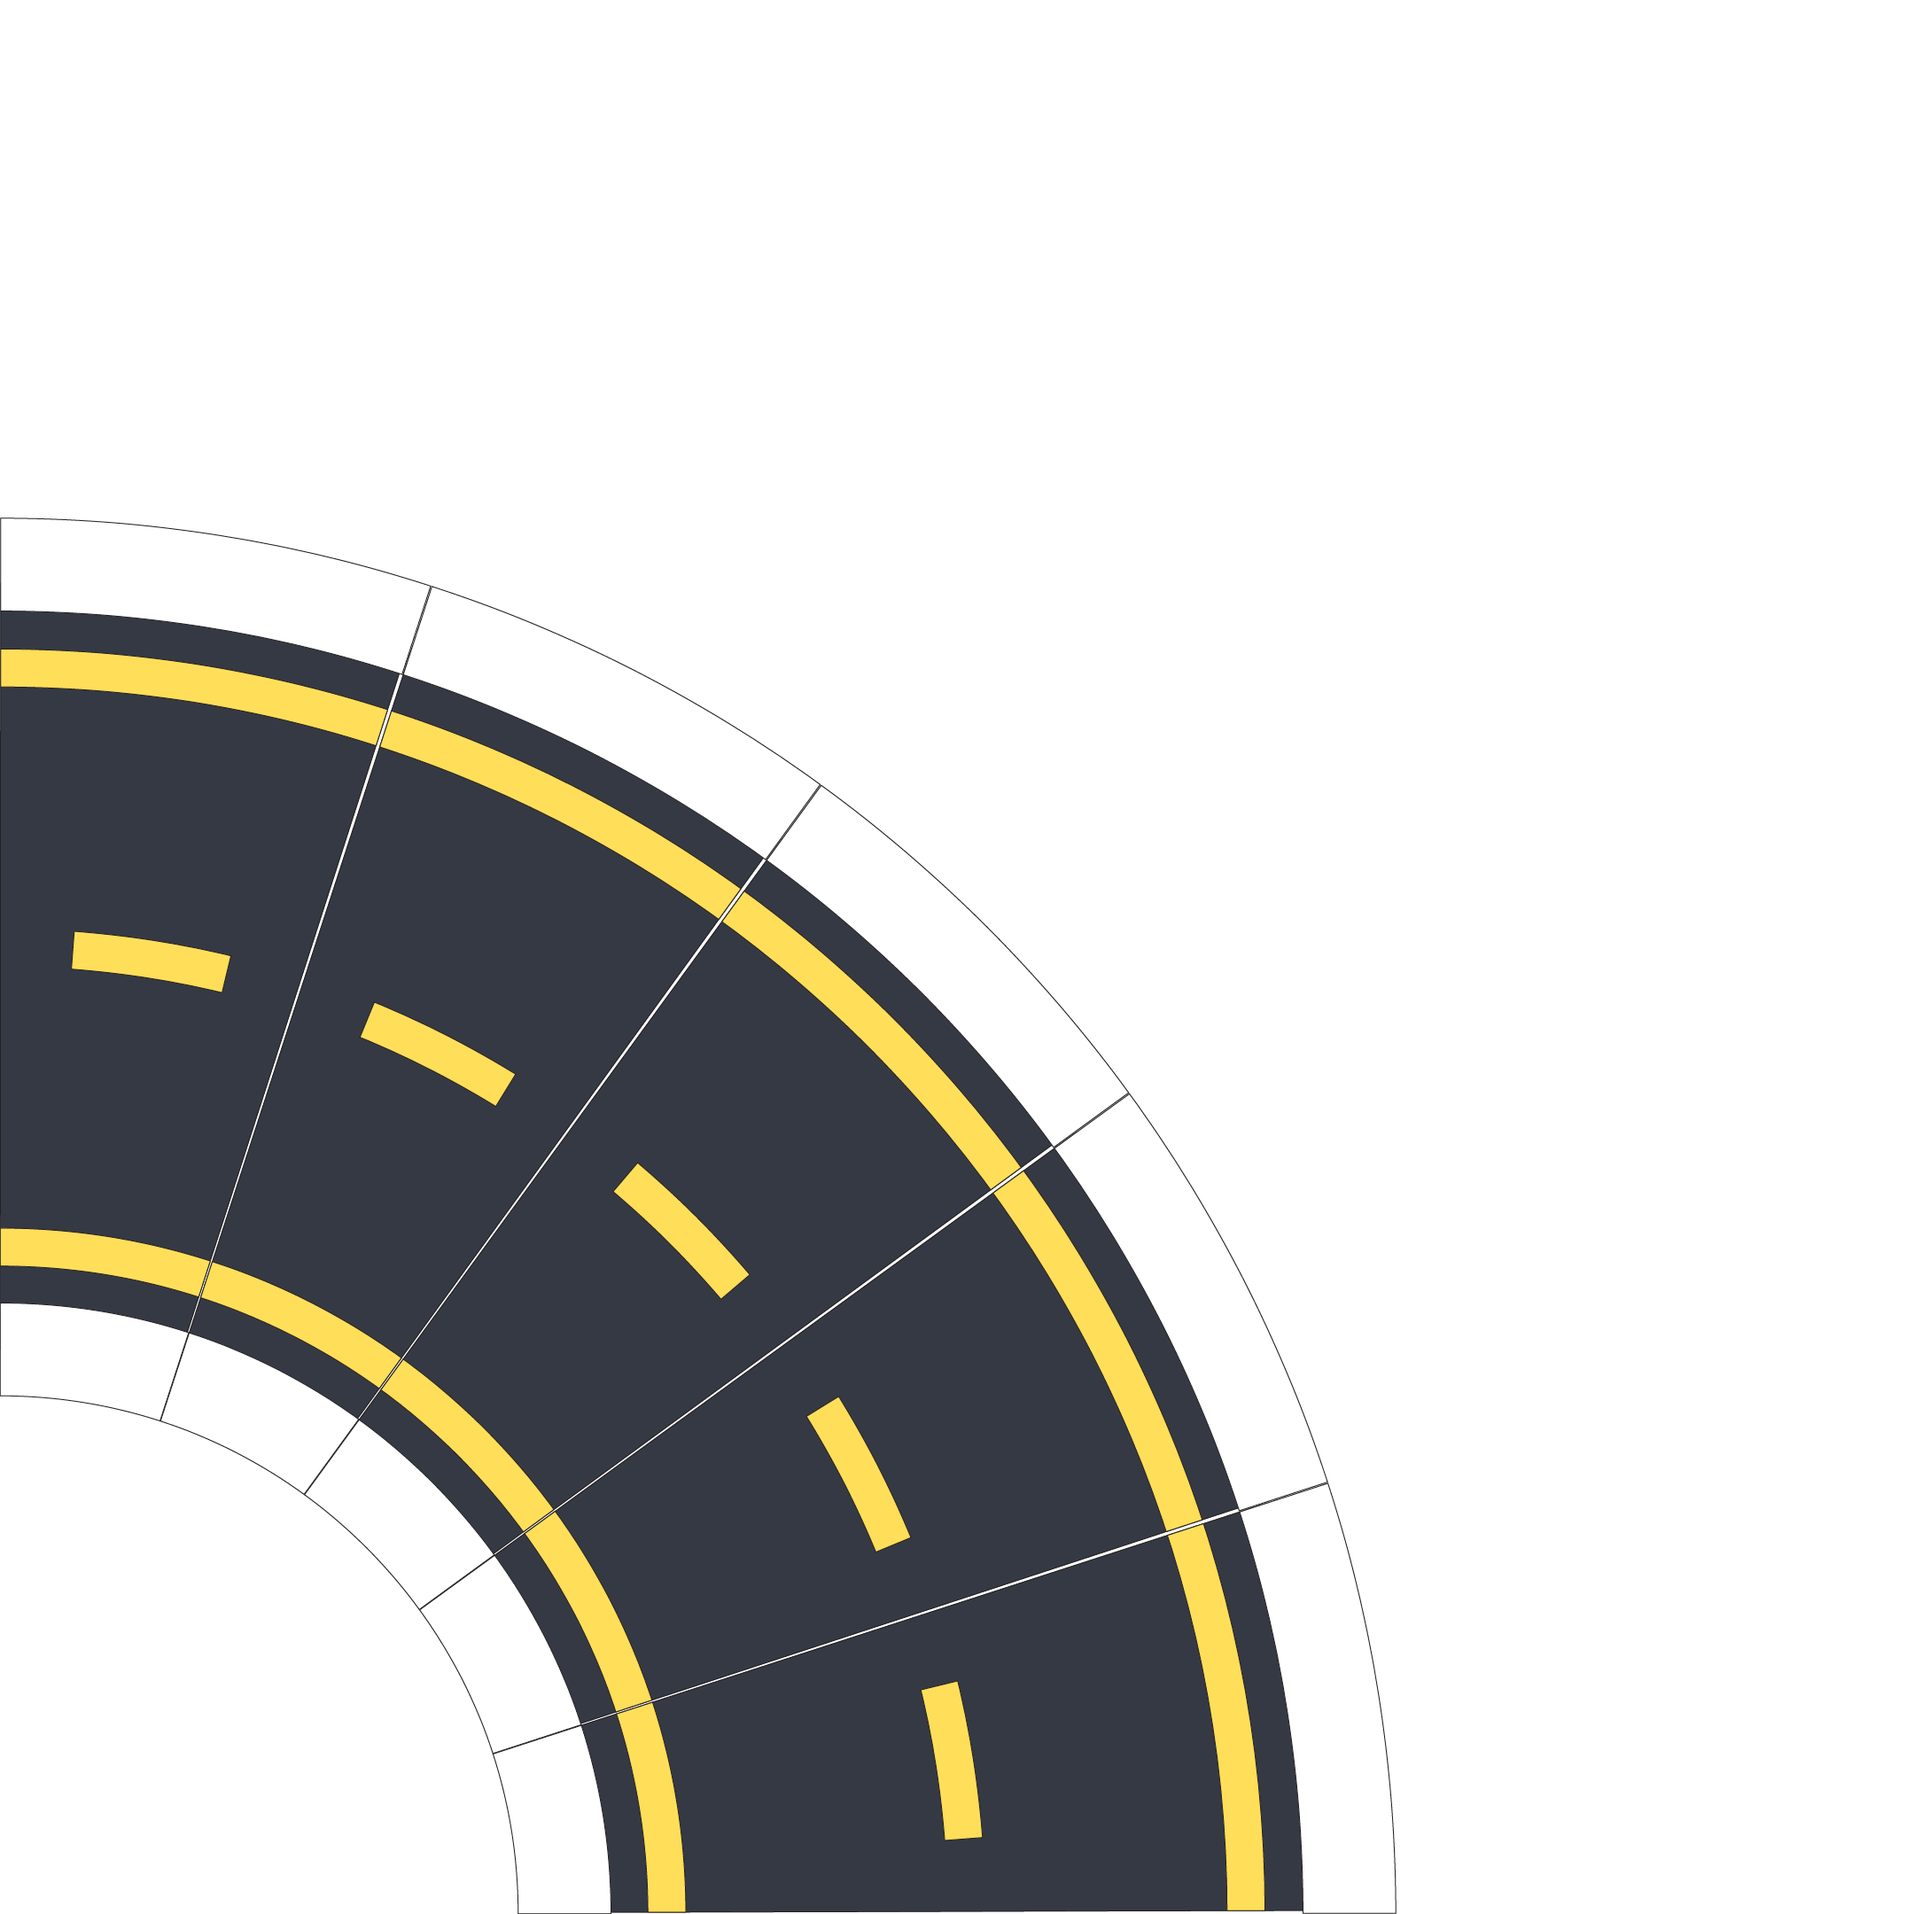
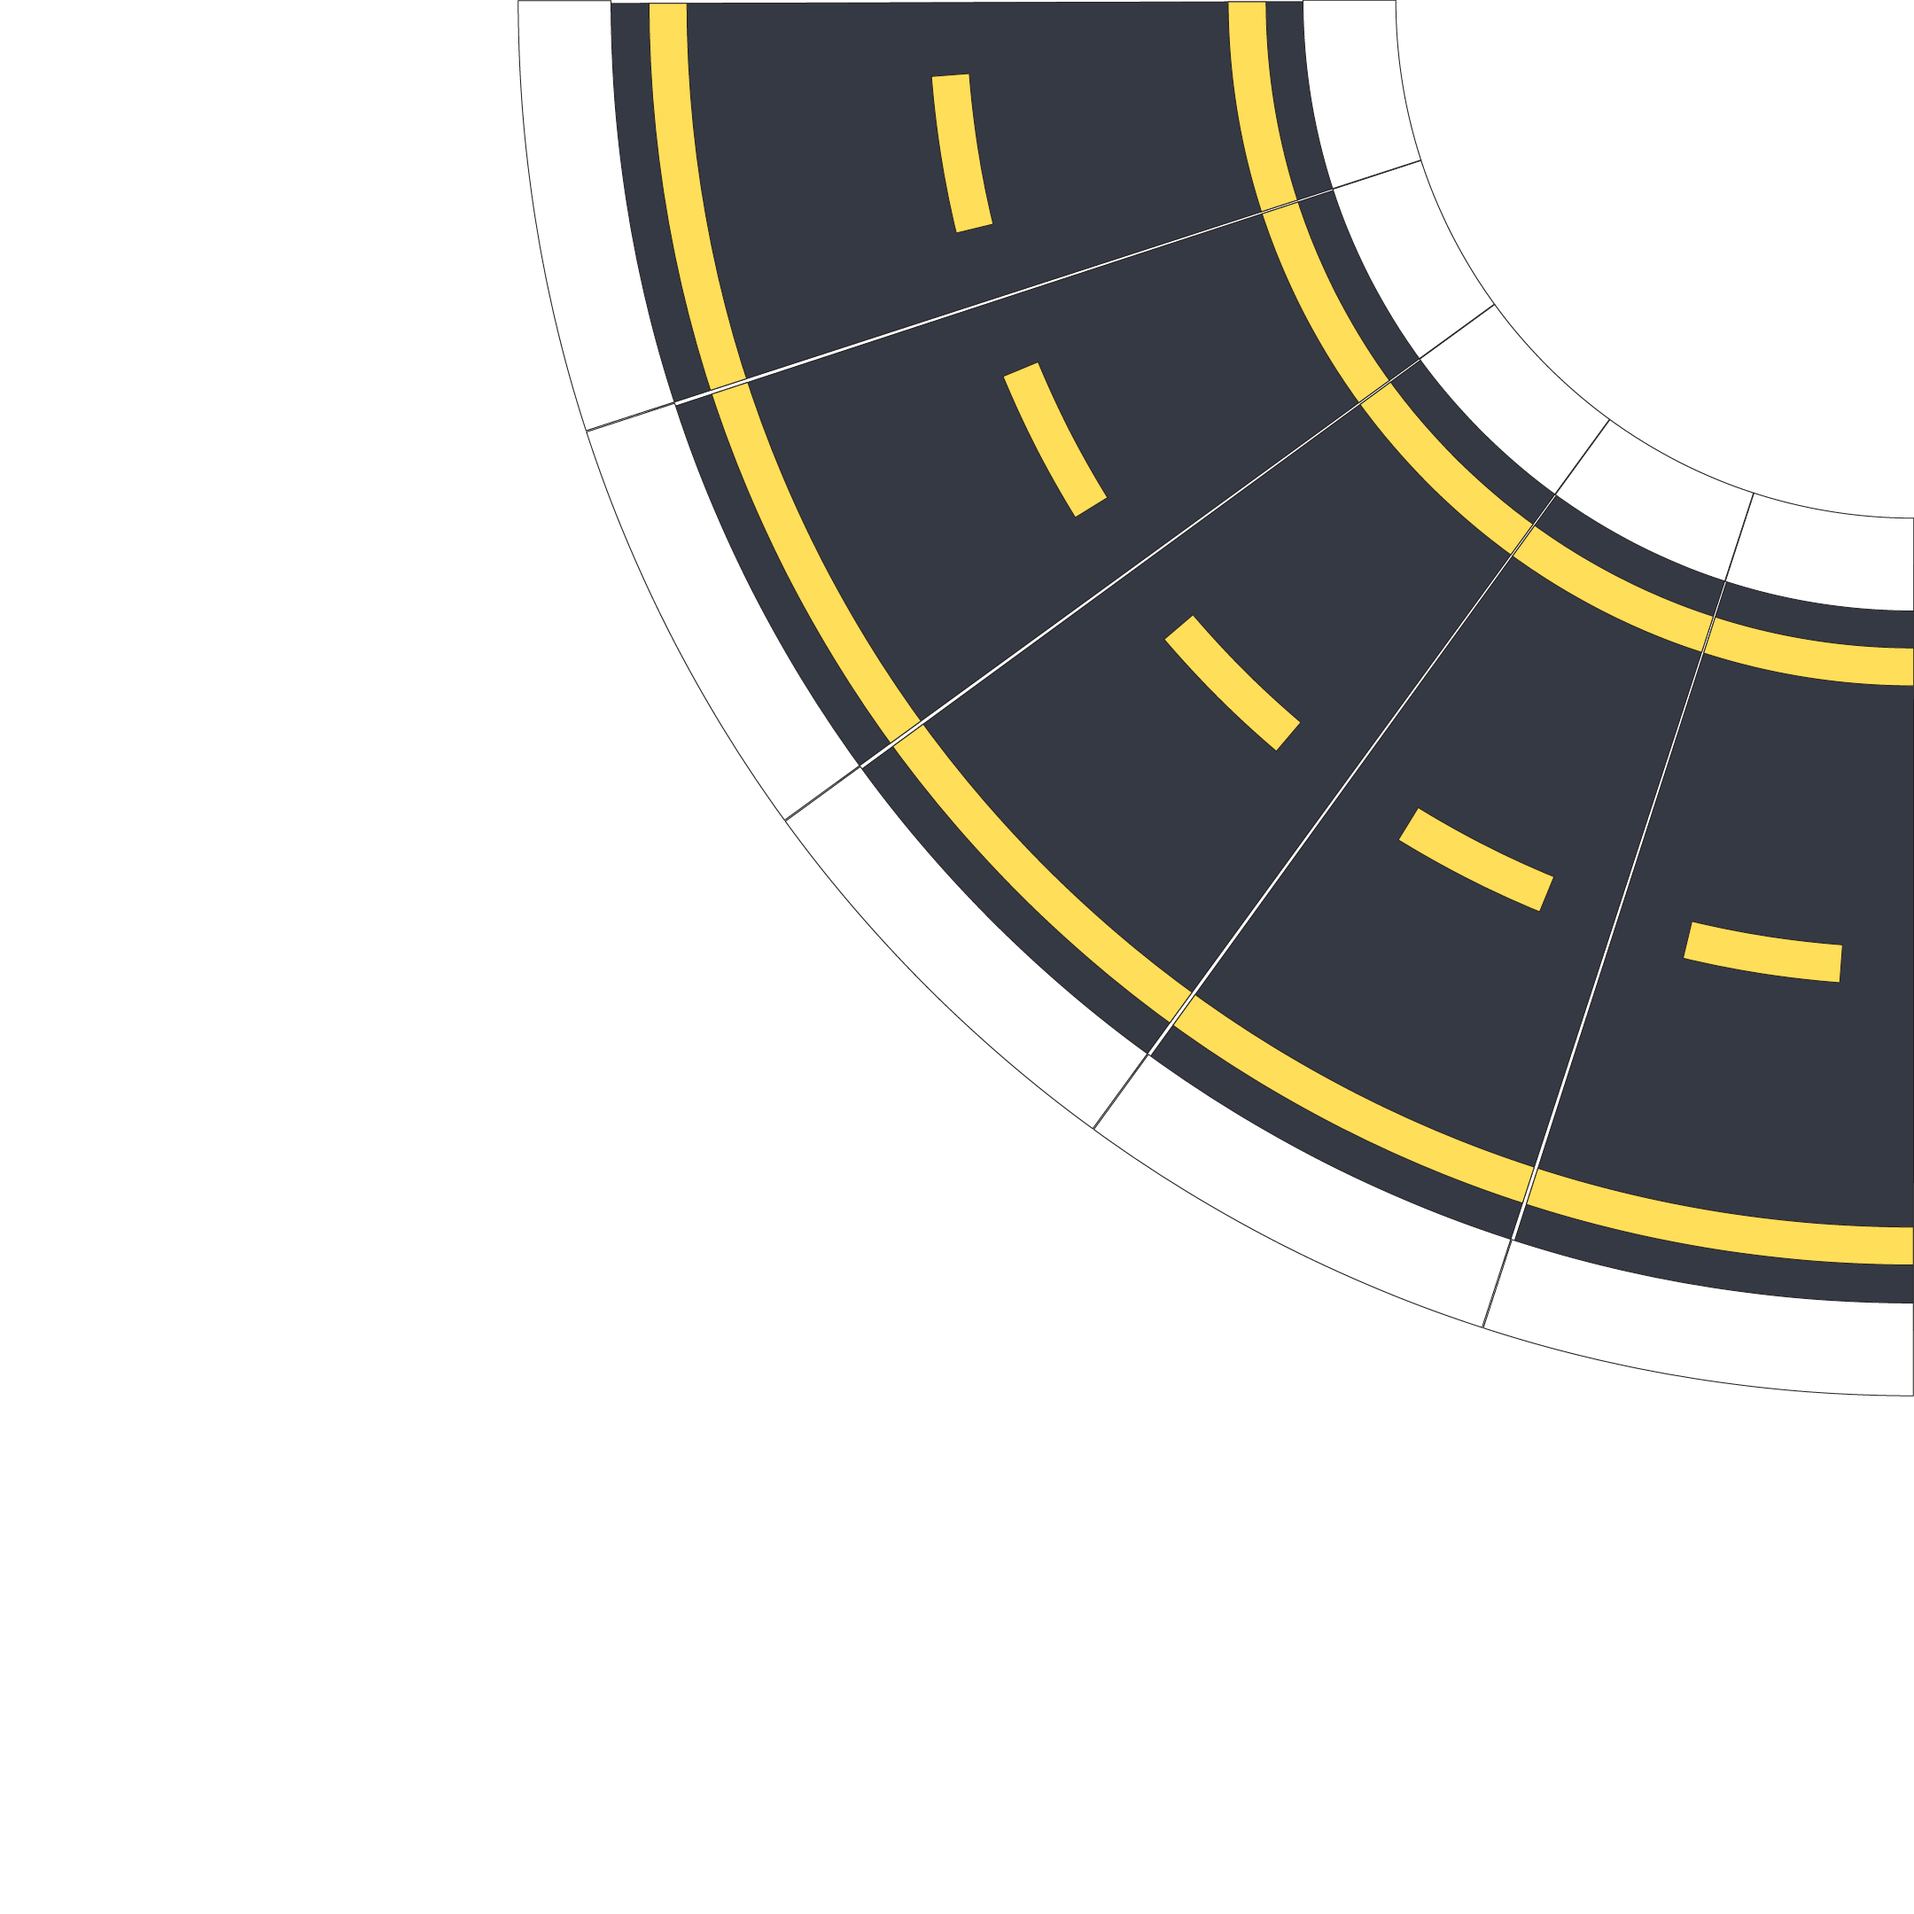
เชี้ยไรเนี้ย

diff --git a/gui/utils/ImageDrawer.java b/gui/utils/ImageDrawer.java
@@ -24,14 +24,15 @@ public class ImageDrawer {
         for (Road[] roads : maps.getAllRoad()) {
             for (Road road : roads) {
                 Block block = mainFrame.getField().getBlock(new Tuple(road.getGridX(), road.getGridY()));
-                int x = road.getX(); int y = road.getY();
+                int x = road.getX();
+                int y = road.getY();
                 int orientation = block.getOrientation();
 
                 double rotationAngle = 0;
                 boolean rotate = false;
 
                 Graphics2D g2d = (Graphics2D) g.create();
-                g2d.setComposite(AlphaComposite.getInstance(AlphaComposite.SRC_OVER, 0.8f));
+                g2d.setComposite(AlphaComposite.getInstance(AlphaComposite.SRC_OVER, 0.7f));
                 switch (block.getPathType()) {
                     case FOURWAY -> g2d.drawImage(ImageResource.FOURWAY_ROAD.getImage(), x, y, WIDTH, HEIGHT, null);
                     case THREEWAY, CURVED -> {
@@ -50,7 +51,8 @@ public class ImageDrawer {
                     }
                 }
 
-                if (rotate) g2d.rotate(rotationAngle, x + WIDTH / 2, y + HEIGHT / 2);
+                if (rotate)
+                    g2d.rotate(rotationAngle, x + WIDTH / 2, y + HEIGHT / 2);
                 g2d.drawImage(switch (block.getPathType()) {
                     case THREEWAY -> ImageResource.THREEWAY_ROAD.getImage();
                     case CURVED -> ImageResource.CURVED_ROAD.getImage();
@@ -63,7 +65,7 @@ public class ImageDrawer {
     }
 
     public void drawPopulation(Graphics g, WorldMap maps, MainFrame mainFrame) {
-        mainFrame.getField().getAllCivilians().forEach((civilian)->{
+        mainFrame.getField().getAllCivilians().forEach((civilian) -> {
             if (civilian.getVitality() == Vitality.COMA || civilian.getVitality() == Vitality.ALIVE) {
                 Image image = switch (civilian.getEntityType()) {
                     case MECHANIC -> {
@@ -119,7 +121,8 @@ public class ImageDrawer {
                     }
                 };
 
-                Road road = maps.getRoad(civilian.getBlock().getCoordinate().getA(), civilian.getBlock().getCoordinate().getB());
+                Road road = maps.getRoad(civilian.getBlock().getCoordinate().getA(),
+                        civilian.getBlock().getCoordinate().getB());
                 int posX = civilian.getPixelCoordinate().getA() + road.getX();
                 int posY = civilian.getPixelCoordinate().getB() + road.getY();
                 Tuple previouPos = civilian.getPreviousCoordinate();
@@ -146,18 +149,24 @@ public class ImageDrawer {
             int posX = dog.getPixelCoordinate().getA() + road.getX();
             int posY = dog.getPixelCoordinate().getB() + road.getY();
             Tuple previousPos = dog.getPreviousCoordinate();
-            Tuple currentPos = new Tuple(posX, posY);
-    
-            if (previousPos != null && !previousPos.equals(currentPos)) {
+            if (previousPos == null) {
+                if (dog.getAlpha() < 0.9f) {
+                    Graphics2D g2d = (Graphics2D) g.create();
+                    g2d.setComposite(AlphaComposite.getInstance(AlphaComposite.SRC_OVER, dog.getAlpha()));
+                    g2d.drawImage(ImageResource.DOG.getImage(), posX, posY, ENTITY_SIZE, ENTITY_SIZE, null);
+                    dog.setAlpha(dog.getAlpha()+0.05f);
+                    g2d.dispose();
+                    maps.repaint();
+                } else {
+                    dog.setPreviousCoordinate(new Tuple(posX, posY));
+                }
+            } else {
                 double speed = 0.1;
                 int newPrevX = (int) (previousPos.getA() + (posX - previousPos.getA()) * speed);
                 int newPrevY = (int) (previousPos.getB() + (posY - previousPos.getB()) * speed);
                 g.drawImage(ImageResource.DOG.getImage(), newPrevX, newPrevY, ENTITY_SIZE, ENTITY_SIZE, null);
                 dog.setPreviousCoordinate(new Tuple(newPrevX, newPrevY));
                 maps.repaint();
-            } else {
-                g.drawImage(ImageResource.DOG.getImage(), posX, posY, ENTITY_SIZE, ENTITY_SIZE, null);
-                dog.setPreviousCoordinate(new Tuple(posX, posY));
             }
         });
     }
@@ -165,7 +174,8 @@ public class ImageDrawer {
     public void drawLandmark(Graphics g, WorldMap maps, MainFrame mainFrame) {
         for (Road[] Roads : maps.getAllRoad()) {
             for (Road Road : Roads) {
-                Image image = switch (mainFrame.getField().getBlock(new Tuple(Road.getGridX(), Road.getGridY())).getBlockType()) {
+                Image image = switch (mainFrame.getField().getBlock(new Tuple(Road.getGridX(), Road.getGridY()))
+                        .getBlockType()) {
                     case STORE -> ImageResource.STORE.getImage();
                     case HOSPITAL -> ImageResource.HOSPITAL.getImage();
                     case POLICESTATION -> ImageResource.POLICE_STATION.getImage();
@@ -183,7 +193,8 @@ public class ImageDrawer {
     public void drawBarricade(Graphics g, WorldMap maps, MainFrame mainFrame) {
         for (Road[] Roads : maps.getAllRoad()) {
             for (Road Road : Roads) {
-                int x = Road.getX(); int y = Road.getY();
+                int x = Road.getX();
+                int y = Road.getY();
                 int Y = (HEIGHT - BARRICADE_SIZE);
 
                 Block block = mainFrame.getField().getBlock(new Tuple(Road.getGridX(), Road.getGridY()));
@@ -197,7 +208,7 @@ public class ImageDrawer {
                 if (block.getPath(Direction.EAST).isBarricaded()) {
                     Graphics2D g2d;
                     g2d = (Graphics2D) g.create();
-                    g2d.rotate(Math.toRadians(90), x + WIDTH/2, y + HEIGHT / 2);
+                    g2d.rotate(Math.toRadians(90), x + WIDTH / 2, y + HEIGHT / 2);
                     g2d.drawImage(ImageResource.BARRICADE.getImage(), x, y, WIDTH, BARRICADE_SIZE, null);
                     g2d.dispose();
                 }

diff --git a/gui/components/WorldMap.java b/gui/components/WorldMap.java
@@ -24,7 +24,6 @@ public class WorldMap extends JPanel {
 
     private final MainFrame mainFrame;
     private final Game game;
-    private boolean draw = true;
     private Road select = null;
     private ActionType action;
     private Civilian alive;
@@ -58,8 +57,8 @@ public class WorldMap extends JPanel {
     public void resetActionRoads() {
         for (int gridY = 0; gridY < 5; gridY++) {
             for (int gridX = 0; gridX < 5; gridX++) {
-                road[gridX][gridY].setIsCanMove(false);
-                road[gridX][gridY].setIsCanShot(false);
+                road[gridX][gridY].setCanMove(false);
+                road[gridX][gridY].setCanShot(false);
             }
         }
     }
@@ -108,14 +107,6 @@ public class WorldMap extends JPanel {
         this.alive = alive;
     }
 
-    public boolean isDraw() {
-        return draw;
-    }
-
-    public void setDraw(boolean draw) {
-        this.draw = draw;
-    }
-
     @Override
     protected void paintComponent(Graphics g) {
         super.paintComponent(g);
@@ -136,9 +127,12 @@ public class WorldMap extends JPanel {
         private final WorldMap map;
         private final int gridX;
         private final int gridY;
-        private boolean isCanMove = false;
-        private boolean isCanShot = false;
+        private boolean canMove = false;
+        private boolean canShot = false;
         private boolean previewDog = false;
+
+        private int a = 50;
+        private int num = -1;
 
         public Road(int gridX, int gridY, WorldMap map) {
             this.gridX = gridX;
@@ -253,22 +247,25 @@ public class WorldMap extends JPanel {
                 g2d.fillRect(0, 0, getWidth(), getHeight());
             }
 
-            if (isCanMove) {
-                g2d.setColor(new Color(255, 255, 0, 50));
+            if (canMove) {
+                g2d.setColor(new Color(255, 255, 0, a));
                 g2d.fillRect(0, 0, getWidth(), getHeight());
             }
 
-            if (isCanShot) {
-                g2d.setColor(new Color(255, 0, 0, 50));
+            if (canShot) {
+                g2d.setColor(new Color(255, 0, 0, a));
                 g2d.fillRect(0, 0, getWidth(), getHeight());
-                g2d.setComposite(AlphaComposite.getInstance(AlphaComposite.SRC_OVER, 0.5f));
+                g2d.setComposite(AlphaComposite.getInstance(AlphaComposite.SRC_OVER, 0.7f));
                 g2d.drawImage(ImageResource.SHOOT.getImage(), 0, 0, getHeight(), getHeight(), null);
             }
 
-            if (previewDog) {
-                g2d.setColor(new Color(255, 0, 0, 50));
-                g2d.fillRect(0, 0, getWidth(), getHeight());
+            if (a >= 80) {
+                num = -1;  
+            } else if (a <= 10) {
+                num = 1; 
             }
+
+            a += num;
             g2d.dispose();
         }
 
@@ -281,19 +278,19 @@ public class WorldMap extends JPanel {
         }
 
         public boolean isCanMove() {
-            return isCanMove;
+            return canMove;
         }
 
-        public void setIsCanMove(boolean isCanMove) {
-            this.isCanMove = isCanMove;
+        public void setCanMove(boolean canMove) {
+            this.canMove = canMove;
         }
 
         public boolean isCanShot() {
-            return isCanShot;
+            return canShot;
         }
 
-        public void setIsCanShot(boolean isCanShot) {
-            this.isCanShot = isCanShot;
+        public void setCanShot(boolean canShot) {
+            this.canShot = canShot;
         }
 
         public boolean isPreviewDog() {

diff --git a/gui/screens/Game.java b/gui/screens/Game.java
@@ -184,10 +184,13 @@ public class Game extends BaseScreen implements ButtonActions<GameButton>, TextD
         mainFrame.getField().endTurn(1);
         mainFrame.getField().getNextRoundDogCoordinates().forEach((dog) -> map.getRoad(dog.getA(), dog.getB()).setPreviewDog(true));
         scrollPanes.values().forEach((action)-> action.removeAllPanel());
+        // SoundPlayer.playSound(SoundResource.NEXTTURN.getSound());
+
         map.setSelect(null);
         map.resetActionRoads();
         map.repaintAllRoads();
         resetText();
+
     }
 
     // -------- Scroll Panel --------//
@@ -306,9 +309,9 @@ public class Game extends BaseScreen implements ButtonActions<GameButton>, TextD
                     newX = map.getSelect().getGridX() + offset.getA();
                     newY = map.getSelect().getGridY() + offset.getB();
                     switch (actionType) {
-                        case MOVE -> map.getRoad(newX, newY).setIsCanMove(true); 
-                        case SHOOT -> map.getRoad(newX, newY).setIsCanShot(true); 
-                        case BUILD -> map.getRoad(newX, newY).setIsCanMove(true); 
+                        case MOVE -> map.getRoad(newX, newY).setCanMove(true); 
+                        case SHOOT -> map.getRoad(newX, newY).setCanShot(true); 
+                        case BUILD -> map.getRoad(newX, newY).setCanMove(true); 
                         default -> {}
                     }
                 }

diff --git a/src/entities/Entity.java b/src/entities/Entity.java
@@ -11,11 +11,13 @@ public abstract class Entity {
 
     protected Tuple previousCoordinate;
     protected Tuple pixelCoordinate;
+    protected float alpha;
 
     public Entity(Block block, EntityType entityType, int blockWidth, int blockHeight, int entitySize) {
         this.entityType = entityType;
         this.block = block;
-        previousCoordinate = null;
+        this.previousCoordinate = null;
+        this.alpha = 0f;
         block.addEntity(this);
         assignPixelCoordinate(blockWidth, blockHeight, entitySize);
     }
@@ -62,5 +64,11 @@ public abstract class Entity {
         return entityType;
     }
 
-    
+    public float getAlpha() {
+        return alpha;
+    }
+
+    public void setAlpha(float alpha) {
+        this.alpha = alpha;
+    }
 }

diff --git a/gui/enums/SoundResource.java b/gui/enums/SoundResource.java
@@ -5,8 +5,7 @@ public enum SoundResource {
     Incorrect("Incorrect.wav"),
     MainMenu("MainMenu.wav"),
     Select("Select.wav"),
-    Shot("shot.wav"),
-    Heal("heal.wav");
+    NEXTTURN("nextturn.wav");
 
     private final String path;
     
